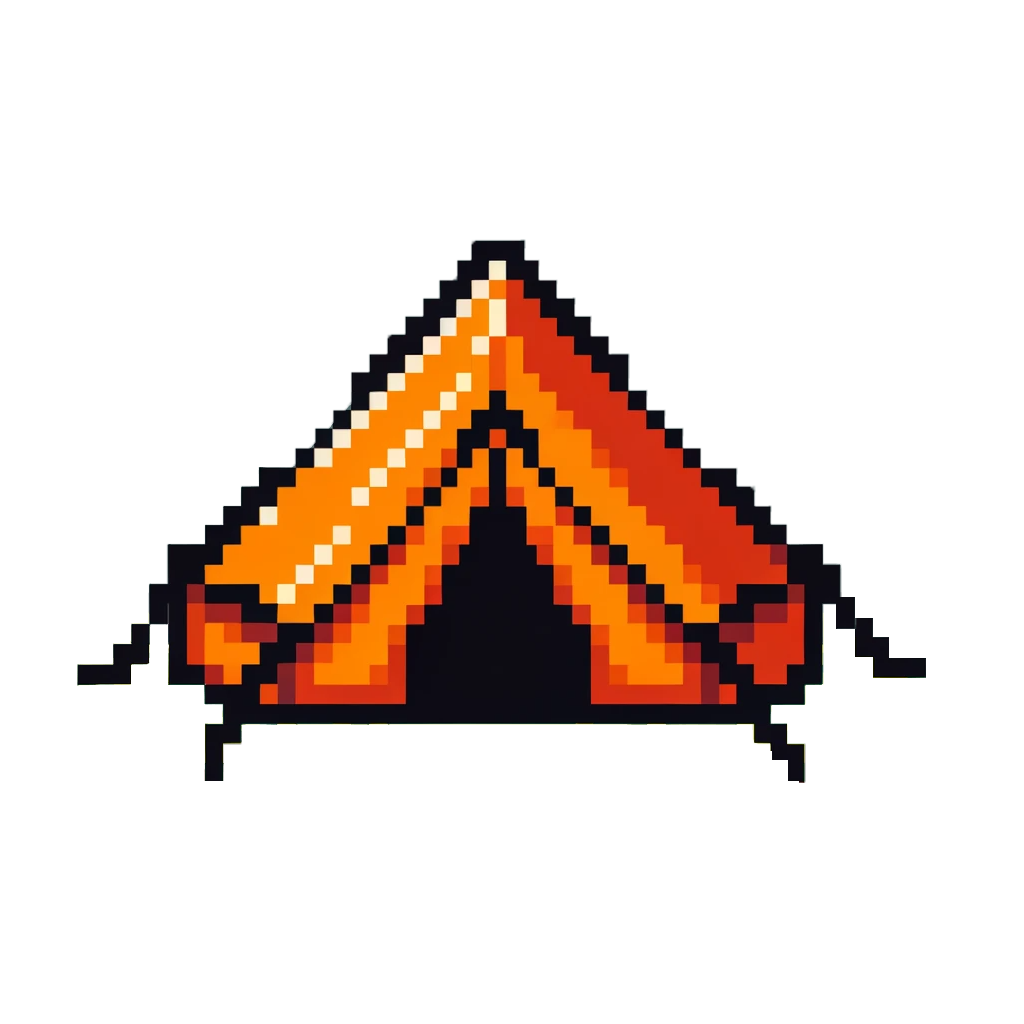
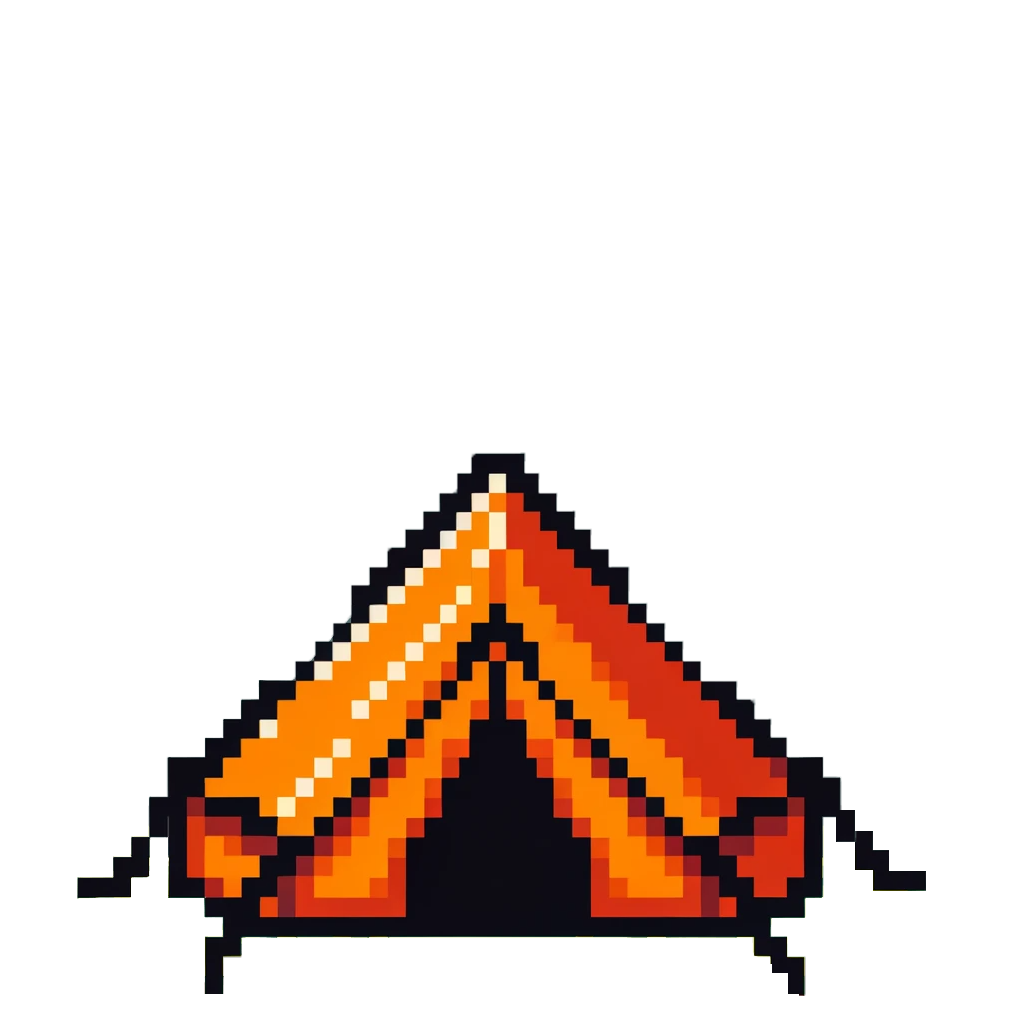
:zap: feat: 메인페이지 몬스터 떨림 버그 수정 및 성 주인공 겹치기 방지

diff --git a/frontend/kingmaker/lib/widget/main/main_monster_position.dart b/frontend/kingmaker/lib/widget/main/main_monster_position.dart
@@ -13,7 +13,7 @@ enum MonsterDirection {
 class MonsterPosition extends PositionComponent {
   final MyGame game;
   final Random _random = Random();
-  final List<String> categorytList =["slime", "skeleton", "goblin", "reaper", "slime", "slime"];
+  final List<String> categorytList =["slime", "skeleton", "goblin", "nutty", "panda", "bear"];
   late int categoryId;
   MonsterDirection currentDirection = MonsterDirection.RIGHT;
   Vector2 velocity = Vector2.zero();
@@ -25,13 +25,13 @@ class MonsterPosition extends PositionComponent {
   late Monster monster;
   late MonsterText monsterText;
 
+  double _elapsedTime = 0.0;
+  double _delay = 2.0; // 2초의 지연
+
   @override
   void onLoad() {
     super.onLoad();
-    position = Vector2(
-        _random.nextDouble() * (1024 - size.x),
-        _random.nextDouble() * (1024 - size.y)
-    );
+    position = position = getRandomPositionOutsideRestrictedArea();
     categoryId = int.tryParse(monsterInfo['category_id'] ?? '') ?? 0;
     monster = Monster(this.game, monsterInfo);
     monsterText = MonsterText(monsterInfo);
@@ -43,11 +43,25 @@ class MonsterPosition extends PositionComponent {
   @override
   void update(double dt) {
     super.update(dt);
-
+    _elapsedTime += dt;
     position += velocity * dt;  // MonsterPosition의 위치를 업데이트
+    // print('x: ${position.x} y: ${position.y}');
+
+    // 몬스터가 제한 구역에 진입하려는지 확인
+    if (isEnteringRestrictedArea(position)) {
+      // 제한 구역에서 멀어지도록 속도 조정
+      if (position.x >= 80 && position.x <= 500) {
+        velocity.x = position.x < (80 + 500) / 2 ? -velocity.x.abs() : velocity.x.abs();
+      }
+      if (position.y >= -40 && position.y <= 300) {
+        velocity.y = position.y < (-40 + 300) / 2 ? -velocity.y.abs() : velocity.y.abs();
+      }
+    }
+
     if (velocity.x > 0 && currentDirection != MonsterDirection.RIGHT) {
       currentDirection = MonsterDirection.RIGHT;
       monster.changeAnimation('${categorytList[categoryId-1]}_right.png');
+
     } else if (velocity.x < 0 && currentDirection != MonsterDirection.LEFT) {
       currentDirection = MonsterDirection.LEFT;
       monster.changeAnimation('${categorytList[categoryId-1]}_left.png');
@@ -57,18 +71,69 @@ class MonsterPosition extends PositionComponent {
       monsterText.position = Vector2(-14, 10);// 원하는 오프셋으로 변경하세요.
     }
 
-    if (position.x <= 0 || position.x >= 1024 - monster.size.x) {
-      velocity.x = -velocity.x;
+    //경계값에 다달았을 때
+    if (position.x <= -100 || position.x >= 1000 - size.x) {
+      // 이미 경계를 넘어갔는지 확인하고, 그렇다면 경계 내부로 위치를 재조정
+      position.x = max(-100, min(position.x, 1000 - size.x));
+      setRandomVelocity();
     }
-    if (position.y <= 0 || position.y >= 1024 - monster.size.y) {
-      velocity.y = -velocity.y;
+  //경계값에 다달았을 때
+    // Y축 경계 확인
+    if (position.y <= 0 || position.y >= 1024 - size.y) {
+      // 이미 경계를 넘어갔는지 확인하고, 그렇다면 경계 내부로 위치를 재조정
+      position.y = max(0, min(position.y, 1024 - size.y));
+      setRandomVelocity();
+    }
+
+    if (_elapsedTime >= _delay) {
+      // 지연 후에 실행할 코드
+      _elapsedTime = 2; // 지연 시간을 재설정
     }
   }
   void setRandomVelocity() {
-    double speed = 30.0;
+    double speed = 100.0;
     double direction = _random.nextDouble() * 2 * pi;
     velocity = Vector2(cos(direction) * speed, sin(direction) * speed);
   }
+
+
+  bool isEnteringRestrictedArea(Vector2 position) {
+    // 제한된 사각형 영역 정의
+    final restrictedTopLeft = Vector2(80, -40);
+    final restrictedBottomRight = Vector2(500, 300);
+
+    // 위치가 제한된 영역 내에 있는지 확인
+    return position.x >= restrictedTopLeft.x &&
+        position.x <= restrictedBottomRight.x &&
+        position.y >= restrictedTopLeft.y &&
+        position.y <= restrictedBottomRight.y;
+  }
+
+  Vector2 getRandomPositionOutsideRestrictedArea() {
+    Vector2 initialPosition;
+    do {
+      initialPosition = Vector2(
+        _random.nextDouble() * (1024 - size.x),
+        _random.nextDouble() * (1024 - size.y),
+      );
+    } while (isWithinRestrictedArea(initialPosition));
+
+    return initialPosition;
+  }
+
+  bool isWithinRestrictedArea(Vector2 position) {
+    // 제한된 사각형 영역의 위치 범위를 정의합니다.
+    final double restrictedLeftX = 80;
+    final double restrictedRightX = 500;
+    final double restrictedTopY = -40;
+    final double restrictedBottomY = 300;
+
+    // position이 제한된 사각형 영역 내에 있는지 검사합니다.
+    return position.x > restrictedLeftX && position.x < restrictedRightX
+        && position.y > restrictedTopY && position.y < restrictedBottomY;
+  }
+
+
 }
 
 class MonsterText extends TextComponent{

diff --git a/frontend/kingmaker/lib/widget/main/main_game.dart b/frontend/kingmaker/lib/widget/main/main_game.dart
@@ -29,8 +29,14 @@ class MyGame extends FlameGame with MultiTouchDragDetector, TapDetector  {
     camera.follow(focusArea);
     //몬스터 리스트 초기화 -지금은 임의 값
     monsterList = [MonsterPosition(this,{'todo_nm' : "첫번째 몬스터",'category_id' :'1'}),
-    MonsterPosition(this,{'todo_nm' : "2번째 몬스터",'category_id' :'1'}),MonsterPosition(this,{'todo_nm' : "3번째 몬스터",'category_id' :'2'}),
-    MonsterPosition(this,{'todo_nm' : "4번째 몬스터", 'category_id' :'2'}),MonsterPosition(this,{'todo_nm' : "5번째 몬스터",'category_id' :'3'}),MonsterPosition(this,{'todo_nm' : "6번째 몬스터", 'category_id' :'4'}),MonsterPosition(this,{'todo_nm' : "7번째 몬스터", 'category_id' :'5'})
+    MonsterPosition(this,{'todo_nm' : "2번째 몬스터",'category_id' :'2'}),
+      MonsterPosition(this,{'todo_nm' : "3번째 몬스터",'category_id' :'4'}),
+      MonsterPosition(this,{'todo_nm' : "2번째 몬스터",'category_id' :'1'}),
+      MonsterPosition(this,{'todo_nm' : "3번째 몬스터",'category_id' :'3'}),
+    MonsterPosition(this,{'todo_nm' : "4번째 몬스터", 'category_id' :'4'}),
+      MonsterPosition(this,{'todo_nm' : "5번째 몬스터",'category_id' :'5'}),
+      MonsterPosition(this,{'todo_nm' : "6번째 몬스터", 'category_id' :'6'}),
+      MonsterPosition(this,{'todo_nm' : "7번째 몬스터", 'category_id' :'6'})
     ];
   }
   void setFocusArea(FocusArea fa) {  // focusArea를 설정하는 메서드
@@ -113,7 +119,7 @@ class MyWorld extends World {
     final bgSprite = await Sprite.load('background.png');
     background = GameBackground(bgSprite, backgroundSize);
     add(background);
-    add(Castle(game, {'level': '1'}));
+    add(Castle(game, {'level': '9'}));
     FocusArea focusArea = FocusArea();
     add(focusArea);
     game.setFocusArea(focusArea);  // MyGame의 focusArea 설정
@@ -125,6 +131,7 @@ class MyWorld extends World {
     for(int i=0; i<this.game.monsterList.length; i++){
       add(this.game.monsterList[i]);
     }
+
 
   }
 

diff --git a/frontend/kingmaker/lib/widget/main/main_castle.dart b/frontend/kingmaker/lib/widget/main/main_castle.dart
@@ -29,27 +29,33 @@ class Castle extends SpriteComponent {
     if(level['level']=='1'||level['level']=='2'){
       //텐트일 때
       size = Vector2.all(250.0);
-      position = Vector2(512, 100);
+      position = Vector2(350, 90);
       textComponent.position.setValues((size.x / 2) - (textWidth / 2),
-          size.y-55);
+          size.y-5);
       add(textComponent);
     }else if(level['level']=='3'||level['level']=='4'||level['level']=='5'){
-      size = Vector2.all(330.0);
-      position = Vector2(512, 100);
+      size = Vector2.all(270.0);
+      position = Vector2(350, 90);
       textComponent.position.setValues((size.x / 2) - (textWidth / 2),
-          size.y-55);
+          size.y-15);
       add(textComponent);
-    }else if(level['level']=='6'||level['level']=='7'){
-      size = Vector2.all(360.0);
-      position = Vector2(512, 100);
+    }else if(level['level']=='6'){
+      size = Vector2.all(290.0);
+      position = Vector2(350, 30);
       textComponent.position.setValues((size.x / 2) - (textWidth / 2),
-          size.y-55);
+          size.y-5);
+      add(textComponent);
+    }else if(level['level']=='7'){
+      size = Vector2.all(300.0);
+      position = Vector2(350, 50);
+      textComponent.position.setValues((size.x / 2) - (textWidth / 2),
+          size.y-35);
       add(textComponent);
     }else if(level['level']=='8'||level['level']=='9'){
-      size = Vector2.all(400.0);
-      position = Vector2(512, 100);
+      size = Vector2.all(300.0);
+      position = Vector2(350, 30);
       textComponent.position.setValues((size.x / 2) - (textWidth / 2),
-          size.y-55);
+          size.y-10);
       add(textComponent);
     }
 

diff --git a/frontend/kingmaker/lib/widget/main/main_monster.dart b/frontend/kingmaker/lib/widget/main/main_monster.dart
@@ -20,9 +20,9 @@ class Monster extends SpriteAnimationComponent with TapCallbacks {
   late TextPainter textPainter;
   late MonsterPosition monsterPosition;
   late TextComponent textComponent;
-  final List<String> categorytList =["slime", "skeleton", "goblin", "reaper", "slime", "slime"];
-  final List<double> sizeX =[160, 216, 216, 96, 160, 160];
-  final List<double> sizeY =[160, 144, 144, 96, 160, 160];
+  final List<String> categorytList =["slime", "skeleton", "goblin", "nutty", "panda", "bear"];
+  final List<double> sizeX =[160, 216, 216, 99, 144, 268];
+  final List<double> sizeY =[160, 144, 144, 99, 144, 93];
   late Vector2 spriteSize;
   @override
   Future<void> onLoad() async {
@@ -38,6 +38,7 @@ class Monster extends SpriteAnimationComponent with TapCallbacks {
     this.animation = animation;
     this.size = spriteSize;
     monsterPosition = parent as MonsterPosition;
+
     textComponent=TextComponent(
         text: "${monsterInfo['todo_nm']}",
         textRenderer: TextPaint(
@@ -75,6 +76,8 @@ class Monster extends SpriteAnimationComponent with TapCallbacks {
     // }
     // 여기서는 position 업데이트나 경계 체크를 하지 않습니다.
     // 이것은 MonsterPosition에서 처리됩니다.
+
+
   }
 
   void changeAnimation(String imagePath) async {
@@ -86,4 +89,7 @@ class Monster extends SpriteAnimationComponent with TapCallbacks {
     final animation = spriteSheet.createAnimation(row: 0, stepTime: 0.1);
     this.animation = animation;
   }
+
+
+
 }

diff --git a/frontend/kingmaker/lib/widget/main/main_player.dart b/frontend/kingmaker/lib/widget/main/main_player.dart
@@ -23,7 +23,7 @@ class MainPlayer extends SpriteComponent with TapCallbacks {
   Future<void> onLoad() async {
       sprite = await Sprite.load('male.png');
       size = Vector2(65,110);
-      position = Vector2(452, 300);
+      position = Vector2(272, 300);
       textComponent=TextComponent(
           text: "엄준식",
           textRenderer: TextPaint(
